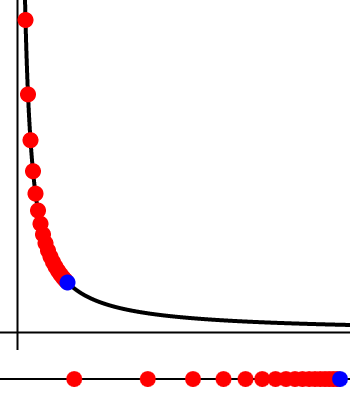
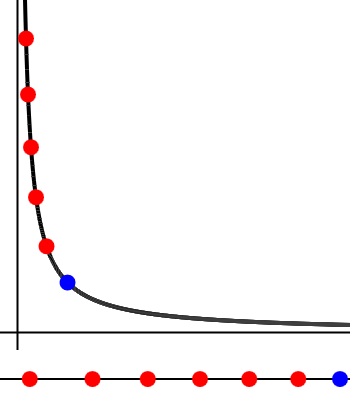
time hyperbola

diff --git a/other/timehyperbola.htm b/other/timehyperbola.htm
@@ -82,11 +82,13 @@ var black = false
 
     var events = []
     
-    var o = {x: 0.01, y: 1 / (0.01)}
+    var startX = 0.01
+    var o = {x: startX, y: 1 / startX}
 
     drawTop()
     //drawBottom(graphB, ctxB, graphB.height / 2)
 
+    var on = true
     function drawTop() {
         ctx.fillStyle = "white"
         ctx.fillRect(0, 0, graph.width, graph.height)
@@ -96,19 +98,23 @@ var black = false
         ctx.moveTo(0, y0)
         ctx.lineTo(graph.width, y0)
         ctx.stroke()
-
+        
         ctx.beginPath()
         ctx.moveTo(x0, 0)
         ctx.lineTo(x0, graph.height)
         ctx.stroke()
 
+        on = true
         ctx.lineWidth = 4
-        ctx.beginPath()
-        ctx.moveTo(x0 + 0.01 * zoom, y0 - zoom * 1/(0.01))
-        for (let ix = 0.01; ix < 10; ix+=0.01) {
+        for (let ix = 0.02; ix < 10; ix+=0.01) {
+            ctx.beginPath()
+            ctx.moveTo(x0 + (ix - 0.01) * zoom, y0 - zoom * 1/(ix - 0.01))
             ctx.lineTo(x0 + ix * zoom, y0 - zoom * 1/(ix))
+            if (on) {
+                ctx.stroke()
+            }
+            //on = !on
         }
-        ctx.stroke()
 
         ctx.fillStyle = "red"
         events.forEach(event => {
@@ -161,26 +167,33 @@ var black = false
     
     var t = 0
     var nextEvent = 0
+    var d = 0
+    var lastX = 0
+    var lastY = 0
 
     setTimeout(() => {
 
         intervalHandle = setInterval(() => {
-
-            if (t === nextEvent) {
-                events.push({x: o.x, y: o.y})
-                nextEvent += 5
-            }
-    
-            t++
+            lastX = o.x
+            lastY = o.y
             o.x += 0.01
             o.y = 1 / o.x
+            d += Math.sqrt(Math.pow(o.x - lastX, 2) + Math.pow(o.y - lastY, 2))
+    
+            if (d >= 1) {
+                console.log(d)
+                events.push({x: o.x, y: o.y})
+                d = 0
+            }
+            
+    
             drawTop()
             drawBottom(graphB, ctxB, graphB.height / 2)
 
             if (o.x >= 1) {
                 clearInterval(intervalHandle)
             }
-        }, 1000 / 60)
+        }, 1000 / 30)
 
     }, 500)
 
